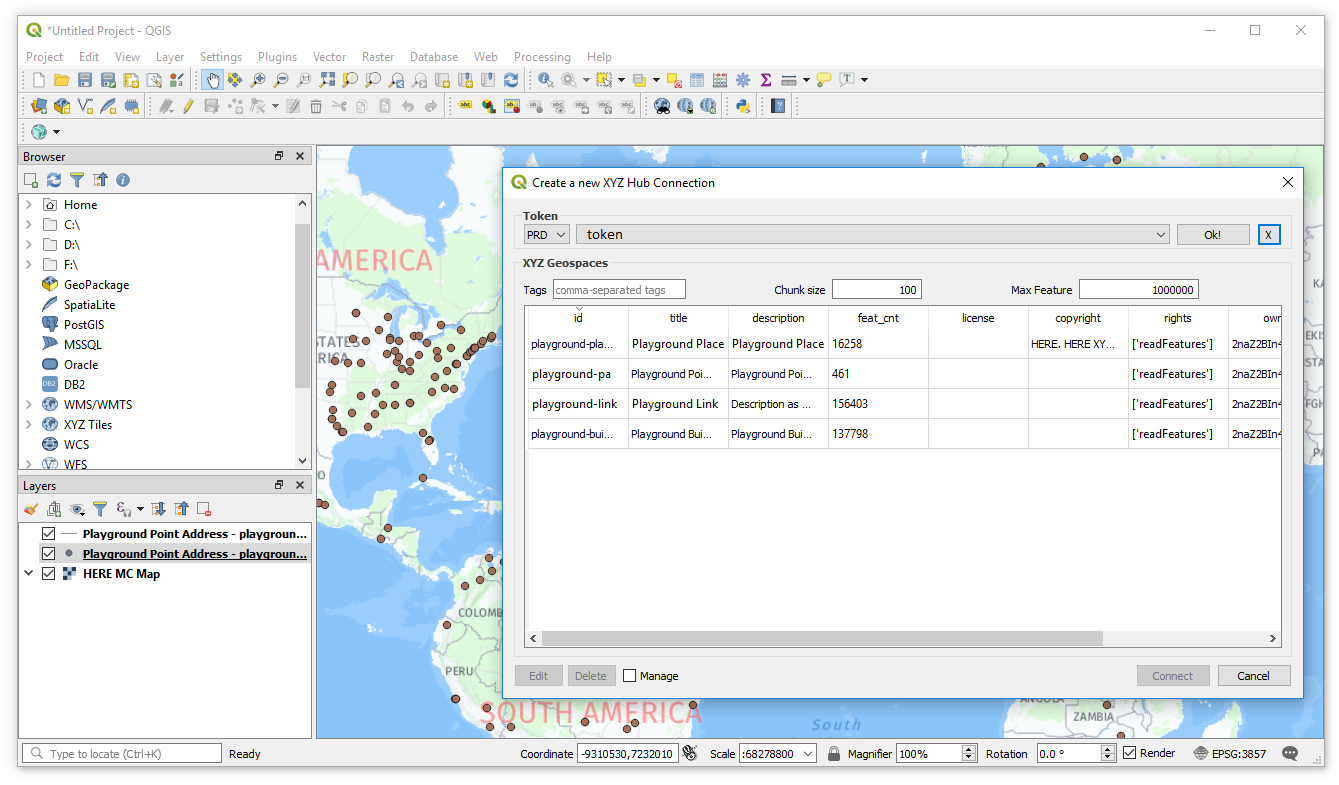
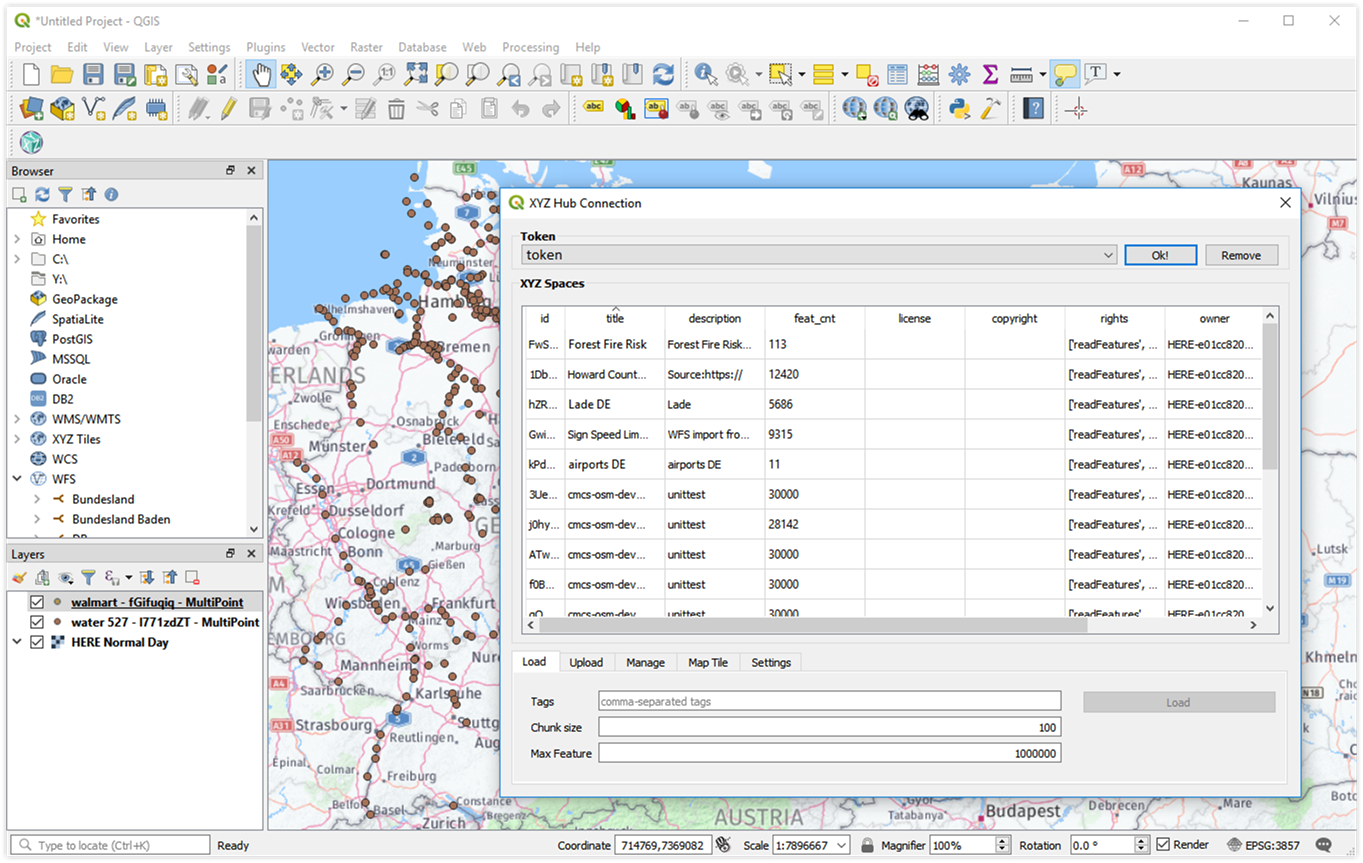
update README + screenshot

diff --git a/README.md b/README.md
@@ -25,17 +25,19 @@ XYZ Hub Connector is a [QGIS](https://www.qgis.org) plugin that allows users to 
 
 ## Usage
 
-Once you have installed and enabled the plugin XYZ Hub Connector in QGIS, it can be accessed via the toolbar, or the menu **Web**
+Once you have installed and enabled the plugin XYZ Hub Connector in QGIS, it can be accessed via the toolbar, or the menu **Web**. The main dialog contains 5 tabs:
 
-![toolbar](res/toolbar.png)
++ `Load` : load data from an XYZ space into QGIS, given a valid token and server (PRD/CIT). To learn more about how to generate a token, refer to https://www.here.xyz/api/getting-token/ and https://xyz.api.here.com/token-ui/. 
 
-`New XYZ Hub Connection` : load data from an XYZ space into QGIS, given a valid token and server (PRD/CIT). To learn more about how to generate a token, refer to https://www.here.xyz/api/getting-token/ and https://xyz.api.here.com/token-ui/. 
++ `Upload` : upload current Vector Layer to a new XYZ Hub space. For this to work, make sure that your token also has write-level permissions.
 
-`Upload to a new XYZ Space` : upload current Vector Layer to a new XYZ Hub space. For this to work, make sure that your token also has write-level permissions.
++ `Manage` : create new space, edit or delete existing space.
 
-`Add HERE Map Tile` : create HERE Map Tile layer given valid app_id and app_code.
++ `Map Tile` : create HERE Map Tile layer given valid `app_id` and `app_code`.
 
-`Clear cache` : empty the temporary cache folder. Active layers will be invalid after clearing cache.
++ `Settings` :
+
+    + `Clear cache` : empty the temporary cache folder. Active layers will be invalid after clearing cache.
 
 ## Development
 
